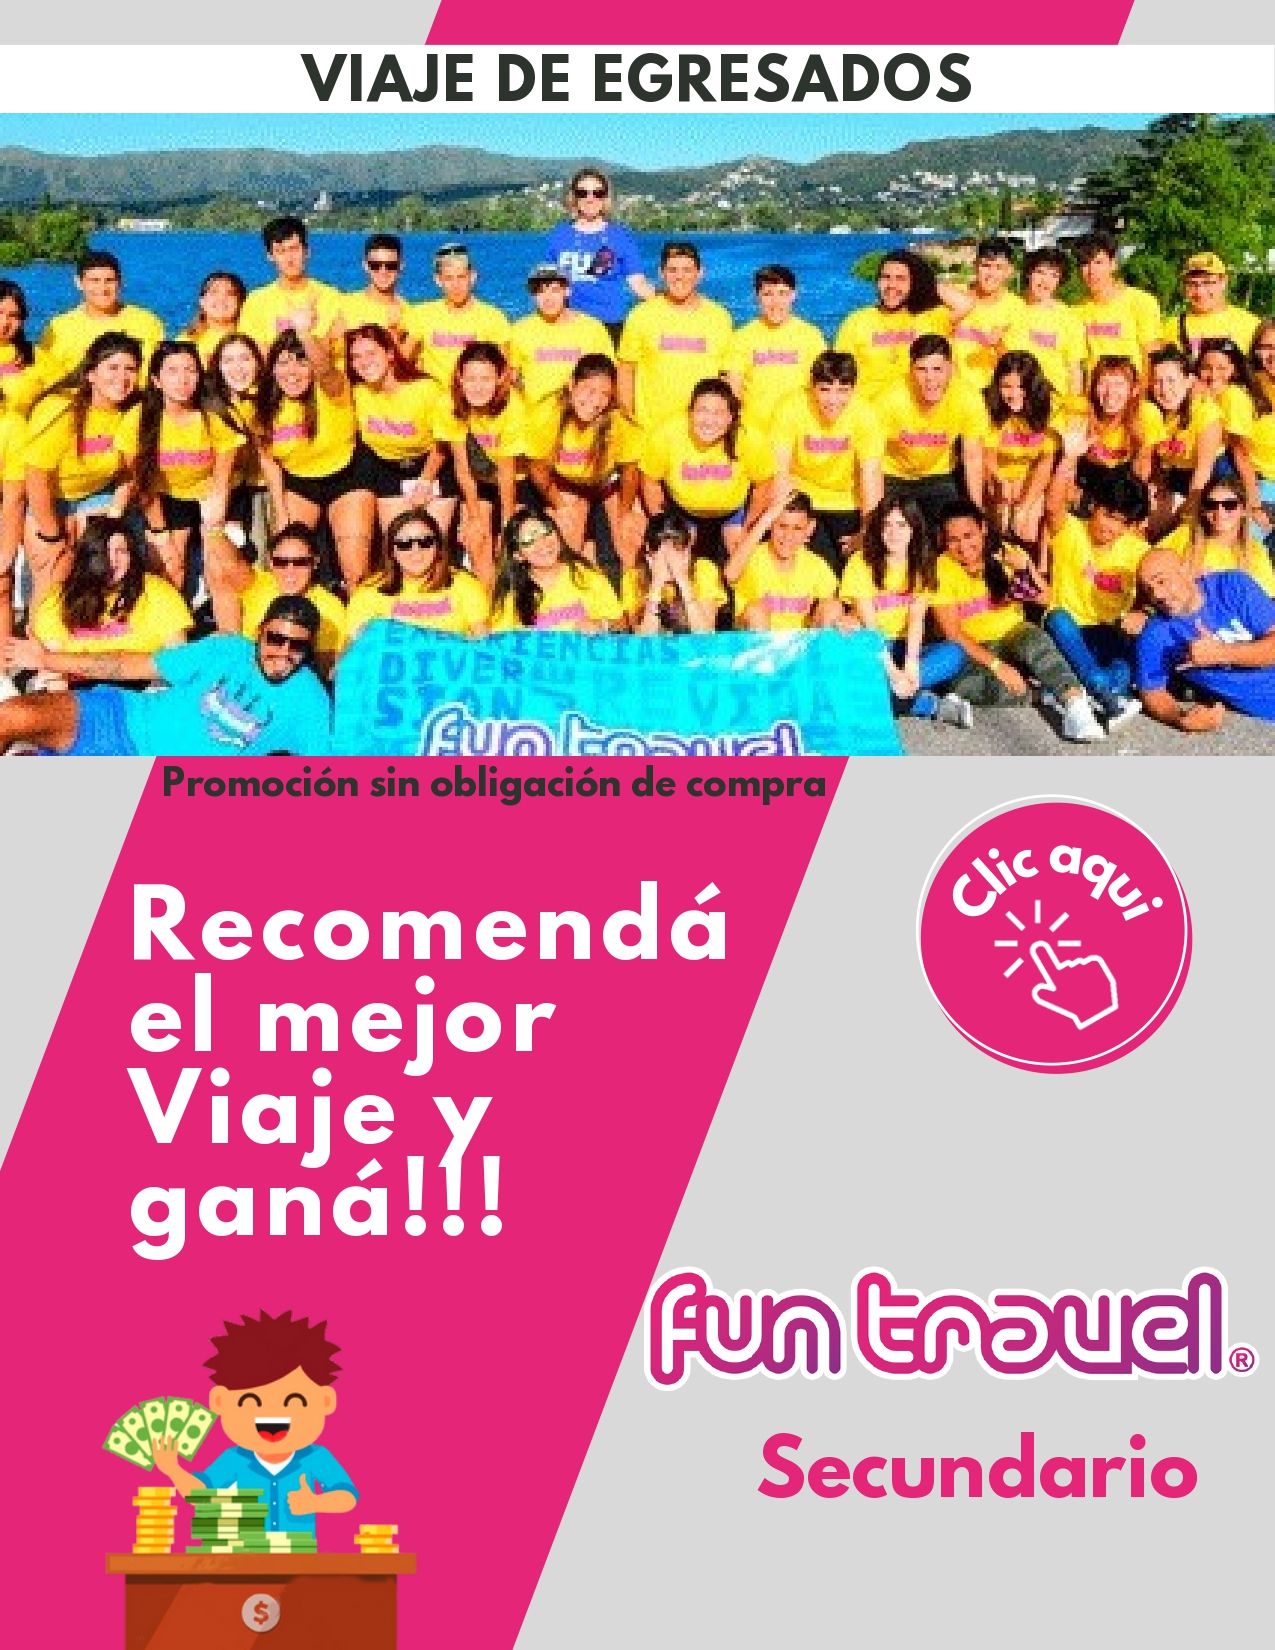
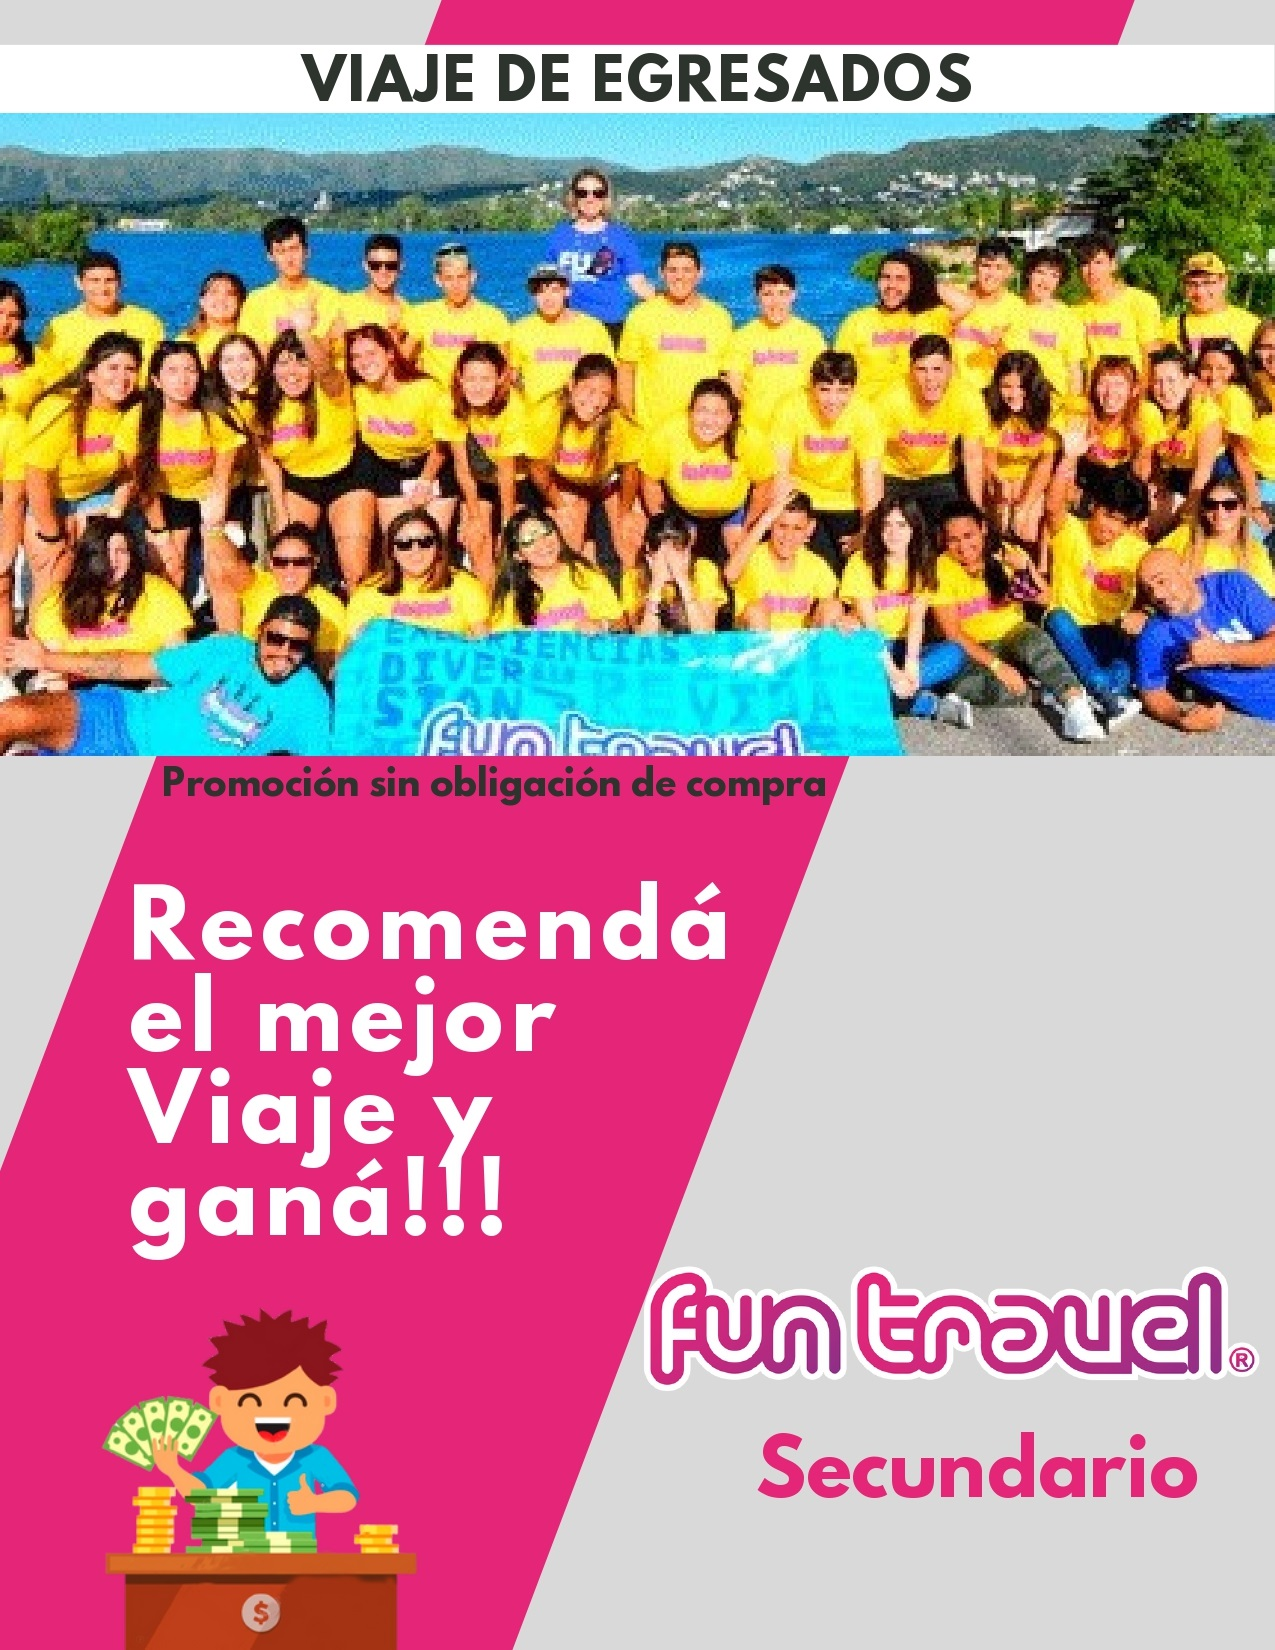
home frontend

Changed region(s): [[0.7035, 0.4636, 0.9482, 0.6491]]

diff --git a/app/assets/stylesheets/pages/_home.scss b/app/assets/stylesheets/pages/_home.scss
@@ -1,1 +1,26 @@
-// Specific CSS for your home-page
+.home-container-relative {
+  background-size: cover;
+  background-position: center;
+  // position: relative;
+  height: 100vh;
+  display: flex;
+  margin: 0 30%;
+}
+
+.background-container {
+  position: relative;
+  top: 0px;
+}
+
+.click-container {
+  // height: 100vh;
+  // width: 100vh;
+  position: absolute;
+  top: 60%;
+  left: 70%;
+}
+
+body {
+  margin: 0;
+  padding: 0;
+}

diff --git a/app/assets/stylesheets/application.scss b/app/assets/stylesheets/application.scss
@@ -10,3 +10,4 @@
 // Your CSS partials
 @import "components/index";
 @import "pages/index";
+@import "pages/home";
